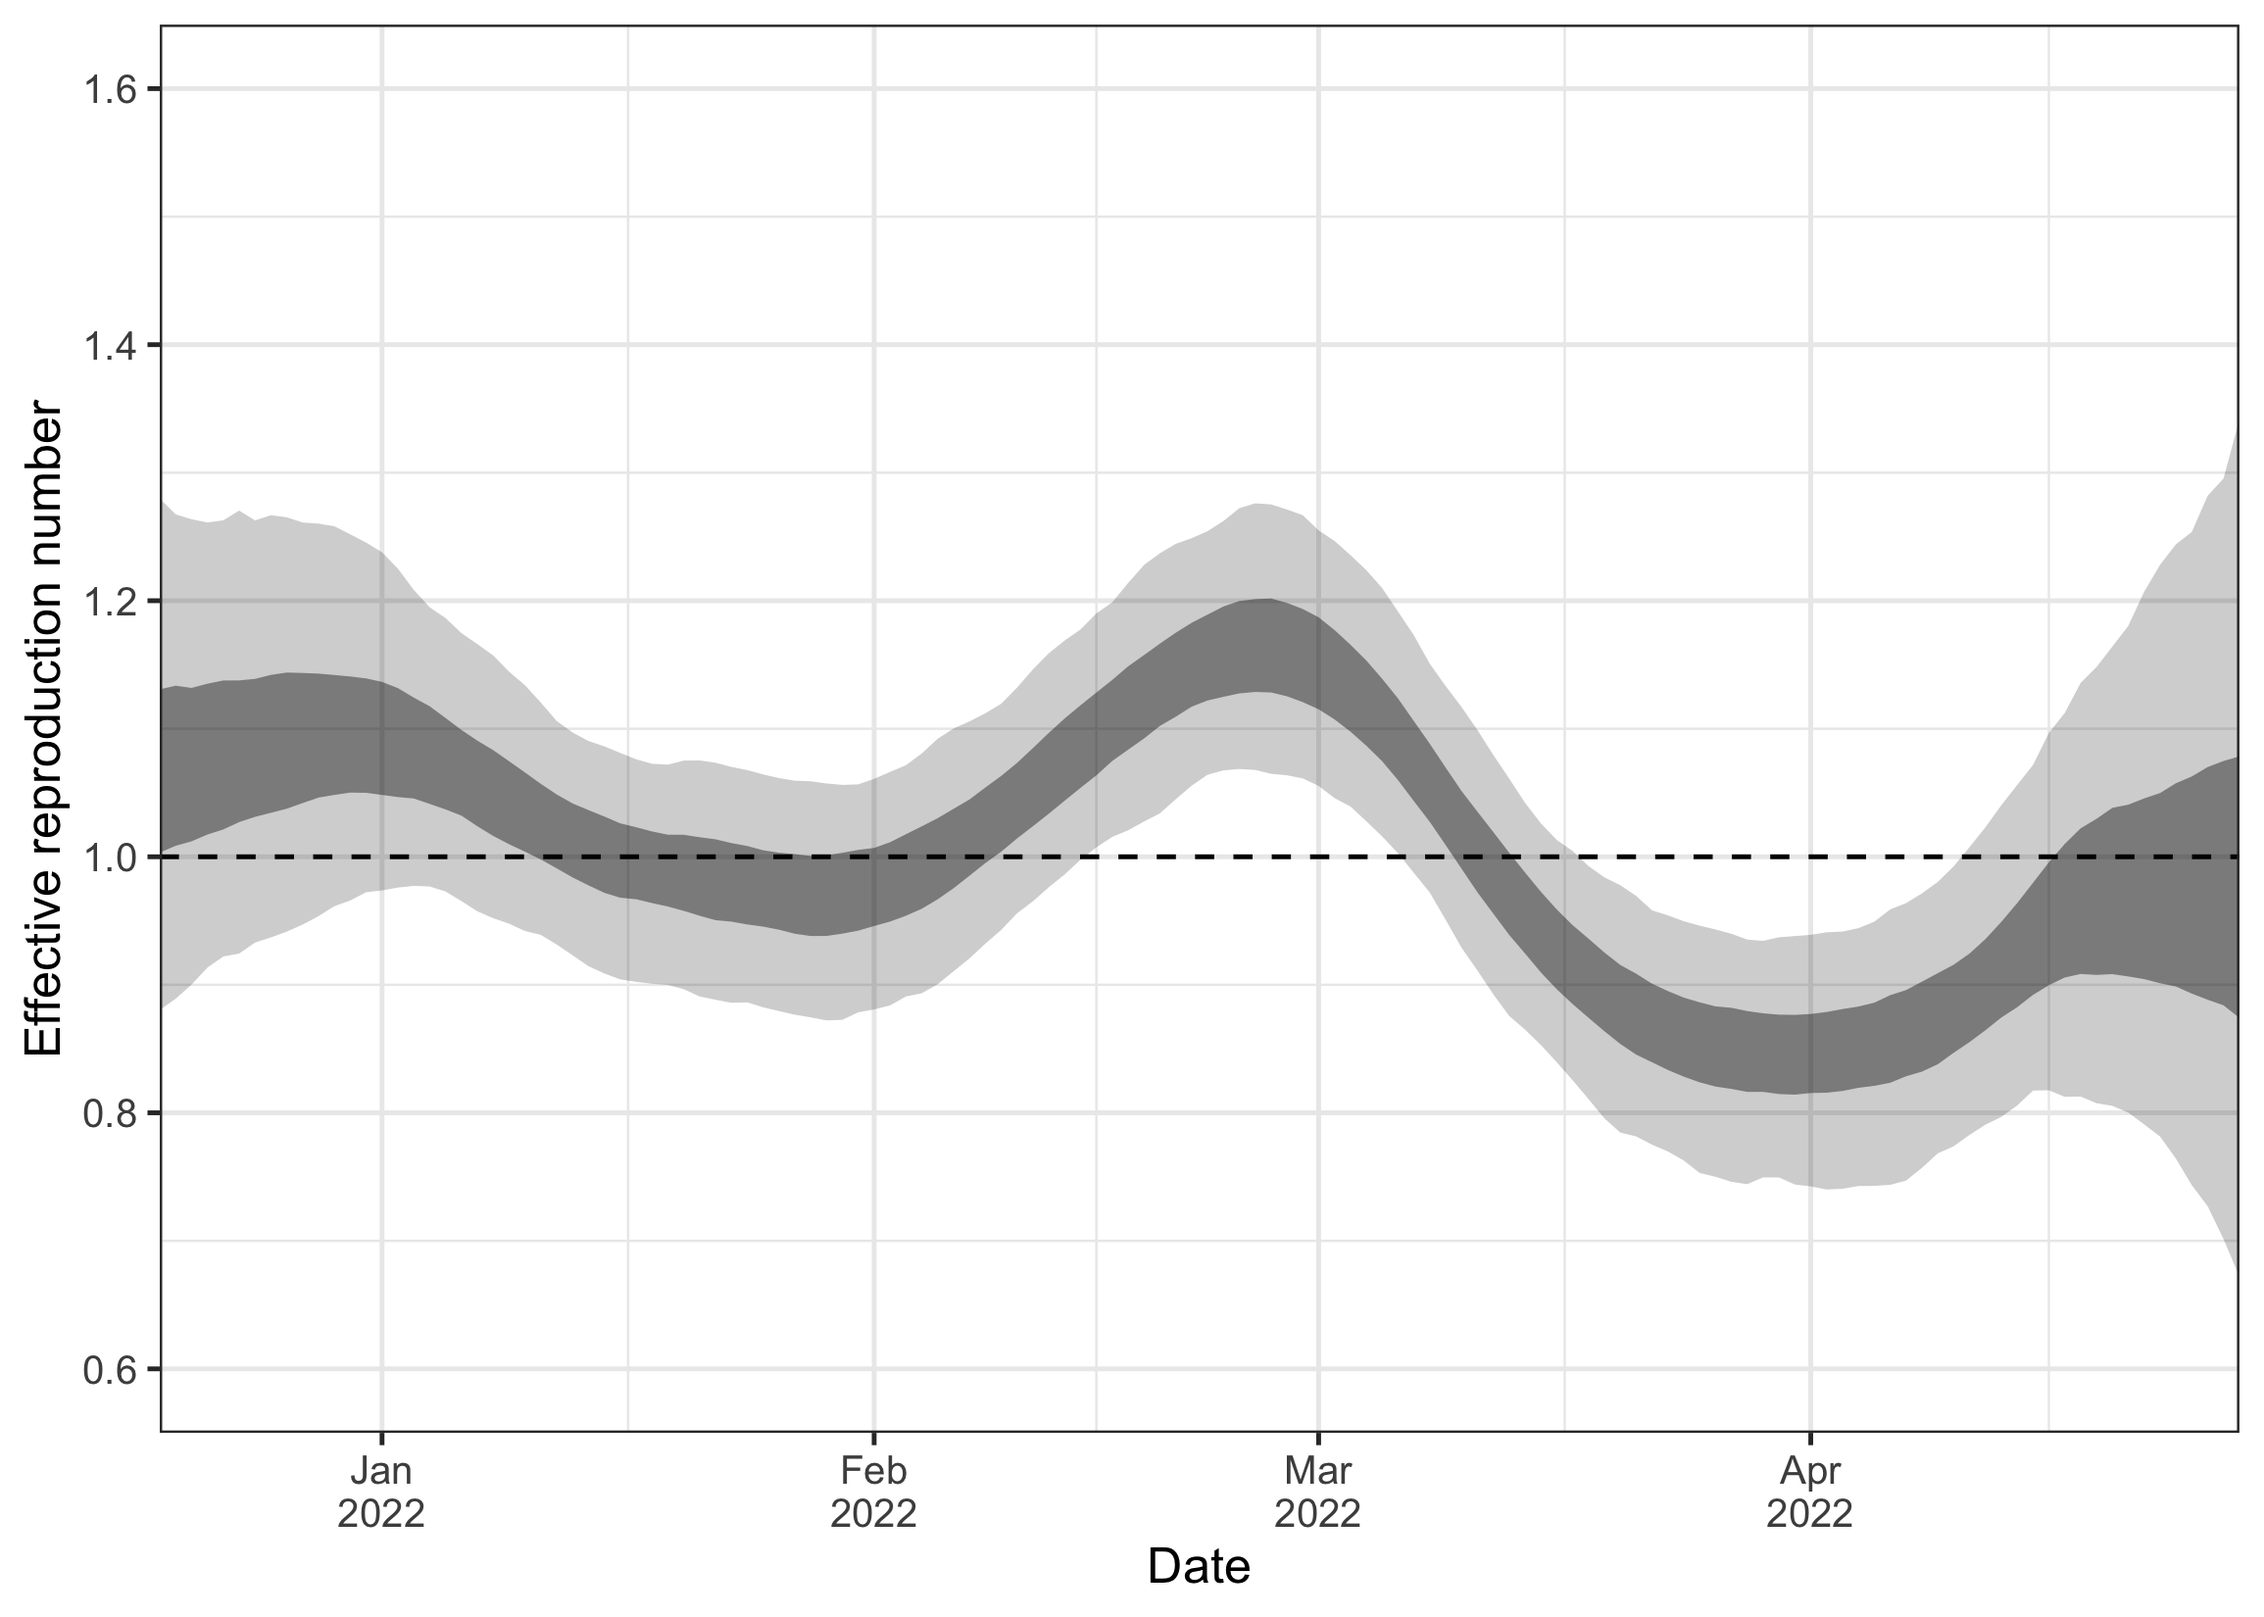
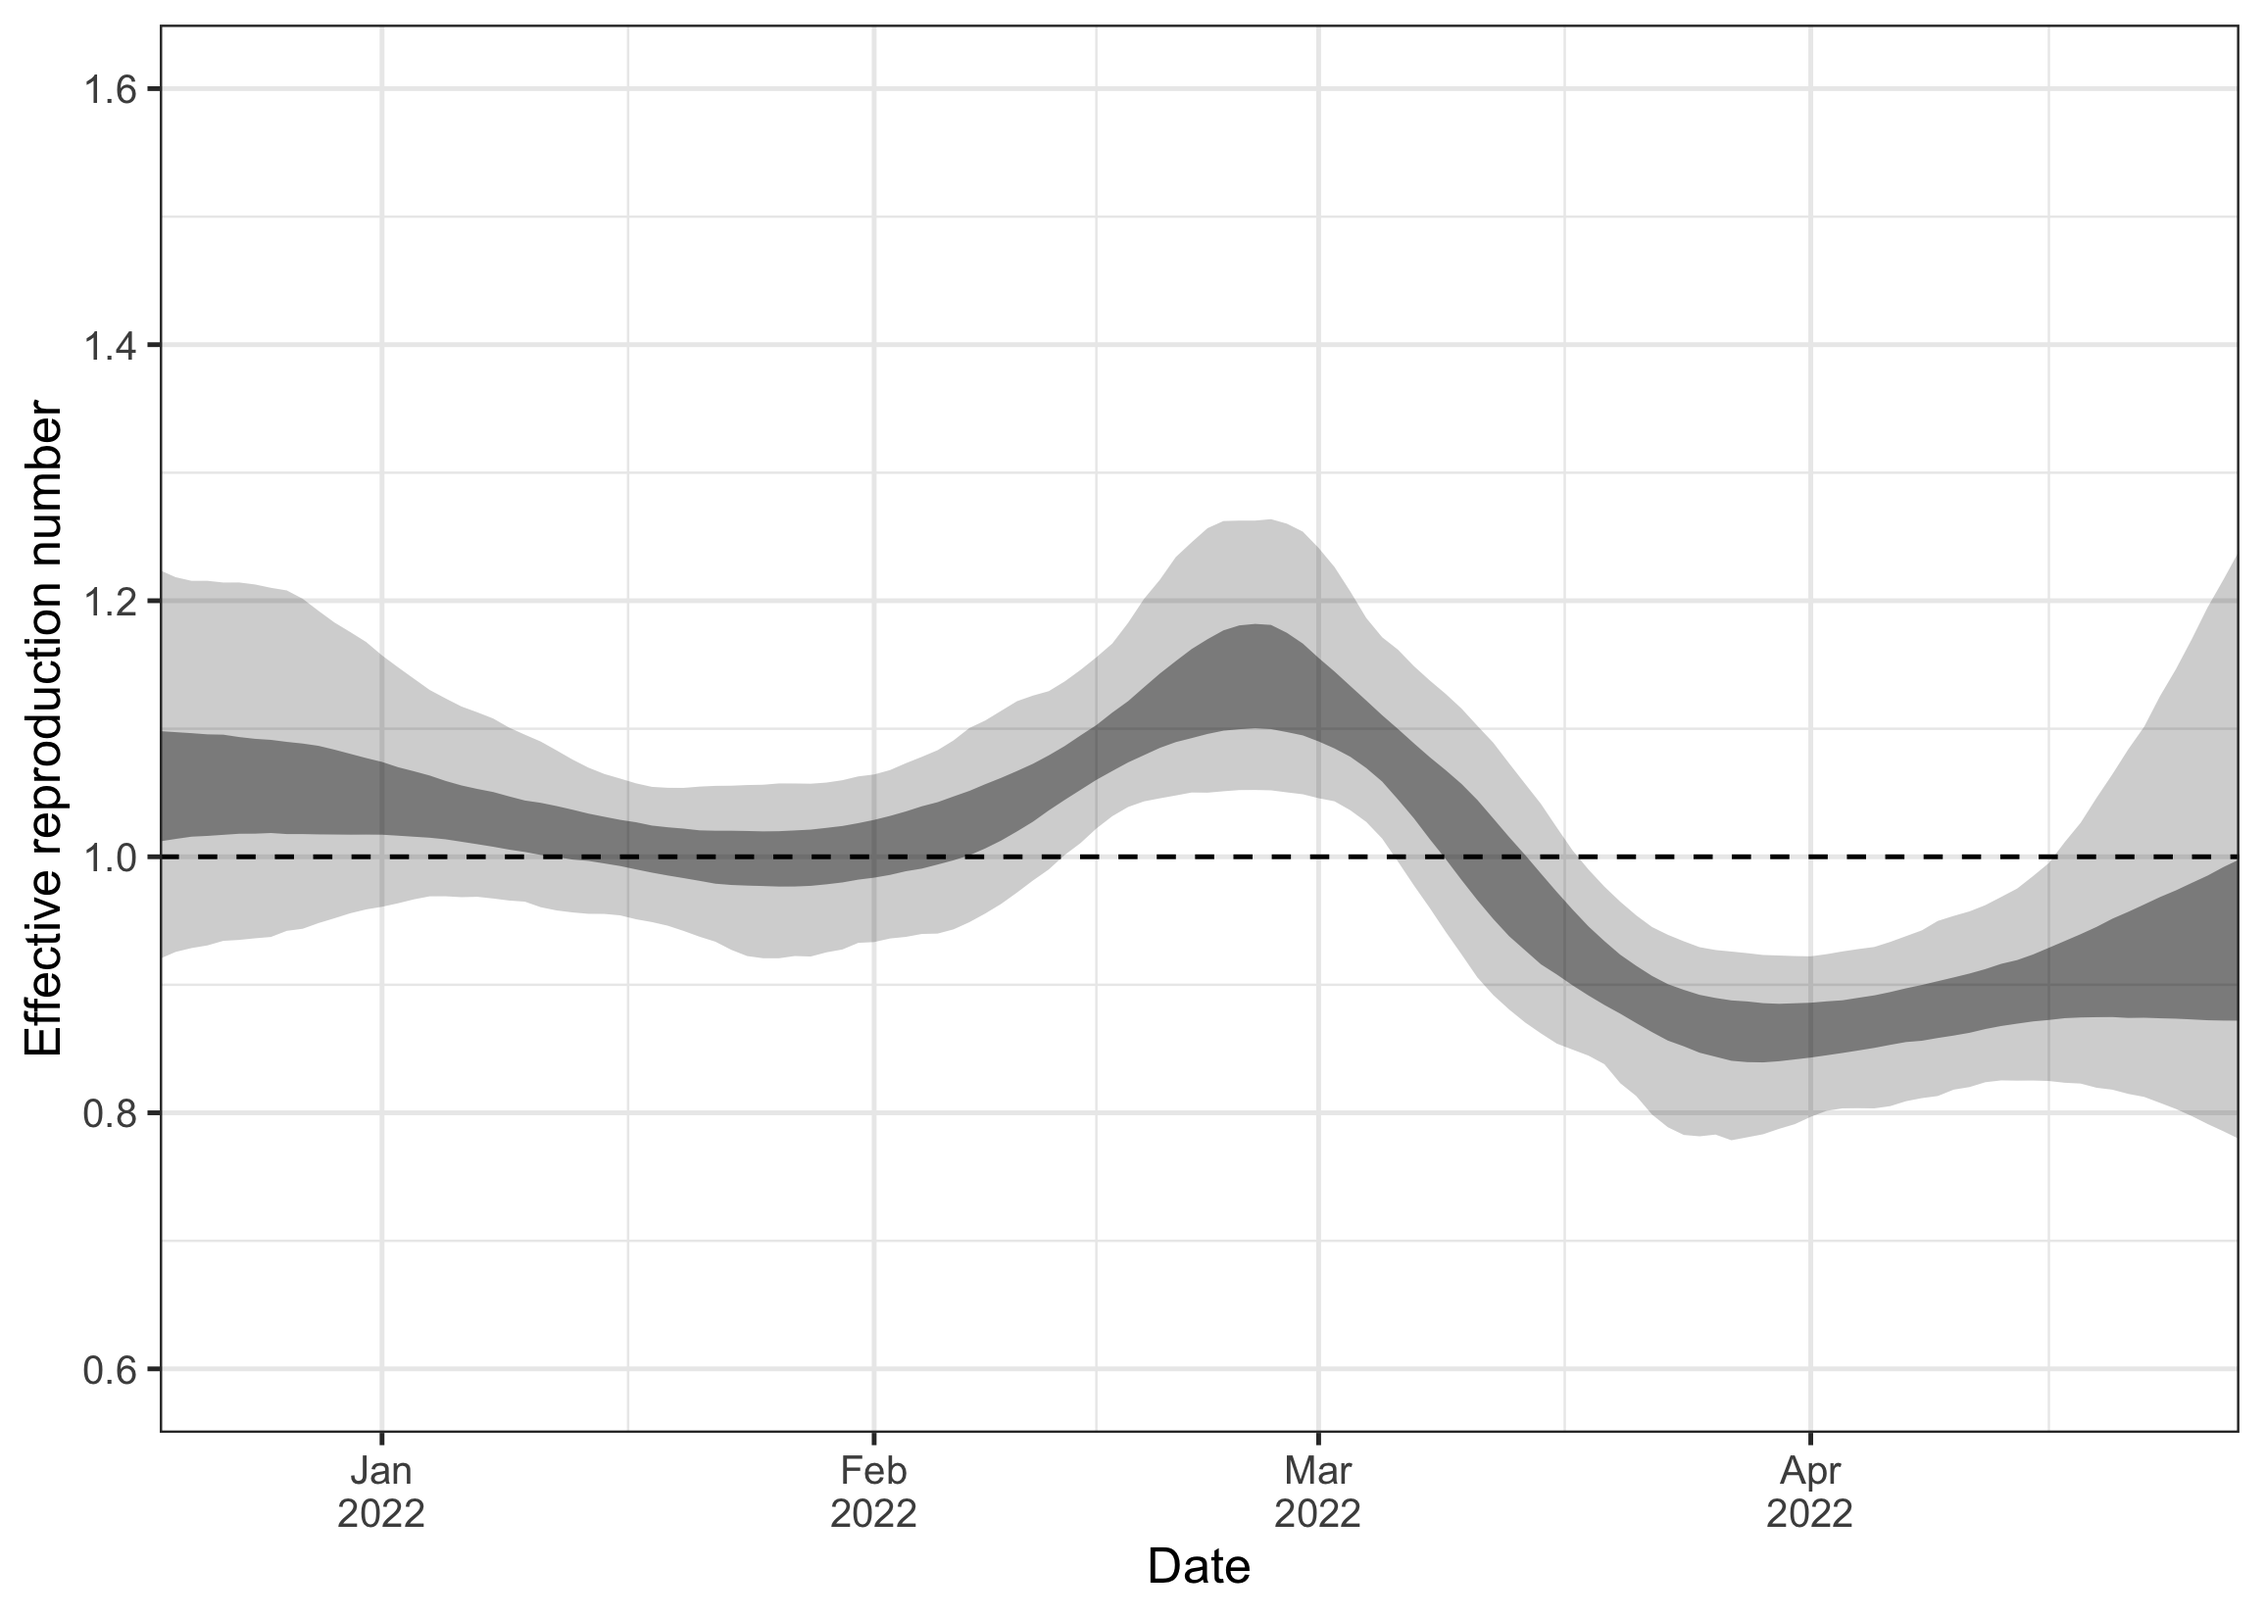
Update README and vignettes

diff --git a/README.md b/README.md
@@ -50,7 +50,7 @@ configurable modeling components.
 **Infections**  
 ⭐ Stochastic infection model with overdispersion  
 ⭐ Flexible $R_t$ smoothing (random walk, exponential smoothing,
-splines)  
+splines, changepoint models)  
 ⭐ Transmission indicators: $R_t$, growth rate, doubling time, and more
 
 **Forecast**  
@@ -299,8 +299,8 @@ Hamiltonian MCMC sampling via stan, using 4 chains with 500 warmup and
 Stan regularly provides updates about the progress of the sampler. The
 overall runtime will depend on your hardware resources, the size of the
 data, the complexity of the model used, and how well the model actually
-fits the data. On a MacBook Pro (2 GHz Quad-Core Intel Core i5) the
-example below takes about 5 minutes to run.
+fits the data. On a modern laptop the example below should take about 5
+minutes to run.
 
 ``` r
 options(mc.cores = 4) # allow stan to use 4 cores, i.e. one for each chain
@@ -518,7 +518,7 @@ ww_result$job$model
 #> 
 #> infections
 #>  |- generation_dist_assume
-#>  |- R_estimate_splines
+#>  |- R_estimate_changepoint_splines
 #>  |- seeding_estimate_rw
 #>  |- infection_noise_estimate (overdispersion = TRUE)
 ```
@@ -536,11 +536,11 @@ parameters from the model.
 ``` r
 names(ww_result$summary)
 #>  [1] "samples"                  "R"                       
-#>  [3] "expected_infections"      "infections"              
-#>  [5] "growth_rate"              "doubling_time"           
-#>  [7] "days_growing"             "expected_load"           
-#>  [9] "expected_concentration"   "concentration"           
-#> [11] "normalized_concentration"
+#>  [3] "R_diagnostics"            "expected_infections"     
+#>  [5] "infections"               "growth_rate"             
+#>  [7] "doubling_time"            "days_growing"            
+#>  [9] "expected_load"            "expected_concentration"  
+#> [11] "concentration"            "normalized_concentration"
 ```
 
 For example, we can access the exact estimates for the reproduction
@@ -549,11 +549,11 @@ number.
 ``` r
 head(ww_result$summary$R, 5)
 #>          date     mean   median lower_0.95 lower_0.5 upper_0.5 upper_0.95
-#> 1: 2021-12-03 1.036807 1.035745  0.6965128 0.9325218  1.135077   1.380163
-#> 2: 2021-12-04 1.037644 1.036200  0.7072554 0.9352365  1.131915   1.375141
-#> 3: 2021-12-05 1.038698 1.035635  0.7225687 0.9409083  1.130870   1.360814
-#> 4: 2021-12-06 1.039966 1.037090  0.7374740 0.9479347  1.126985   1.354385
-#> 5: 2021-12-07 1.041443 1.038955  0.7485678 0.9517000  1.126372   1.344230
+#> 1: 2021-12-03 1.055381 1.048665  0.8799468  1.000064  1.104198   1.260969
+#> 2: 2021-12-04 1.055389 1.048665  0.8799478  1.000064  1.104195   1.260969
+#> 3: 2021-12-05 1.055402 1.048735  0.8799507  1.000117  1.104193   1.260969
+#> 4: 2021-12-06 1.055421 1.048835  0.8803259  1.000117  1.104255   1.260904
+#> 5: 2021-12-07 1.055453 1.048840  0.8805724  1.000188  1.104162   1.258138
 #>        type seeding
 #> 1: estimate    TRUE
 #> 2: estimate    TRUE
@@ -577,7 +577,7 @@ ww_result$fitted$diagnostic_summary()
 #> [1] 0 0 0 0
 #> 
 #> $ebfmi
-#> [1] 0.9634045 0.9527539 1.0770535 1.0579167
+#> [1] 0.9574684 0.9342793 1.0592704 1.0218015
 ```
 
 Finally, the `checksums` attribute gives us several checksums that
@@ -589,10 +589,10 @@ is not `NULL`), then the results should also be identical.
 ``` r
 ww_result$checksums
 #> $model
-#> [1] "9ab6b8f9db0836e27cf9e9ac6ab1ea02"
+#> [1] "f4b5aa9be59d90f0dc58acc306eb70cd"
 #> 
 #> $input
-#> [1] "c5d9acd8e8877d4ffbb24019996c07f9"
+#> [1] "6c415f5e21cf6547f2a7a470face2ac7"
 #> 
 #> $fit_opts
 #> [1] "5309bbbc3cd1cc109eac60d2fc82de45"
@@ -601,7 +601,7 @@ ww_result$checksums
 #> [1] "e92f83d0ca5d22b3bb5849d62c5412ee"
 #> 
 #> $init
-#> [1] "4329118480e9cb86b22d61c739d8c77e"
+#> [1] "b57d01341d896ab30df96cc3cd66461f"
 ```
 
 ## Citing the package
